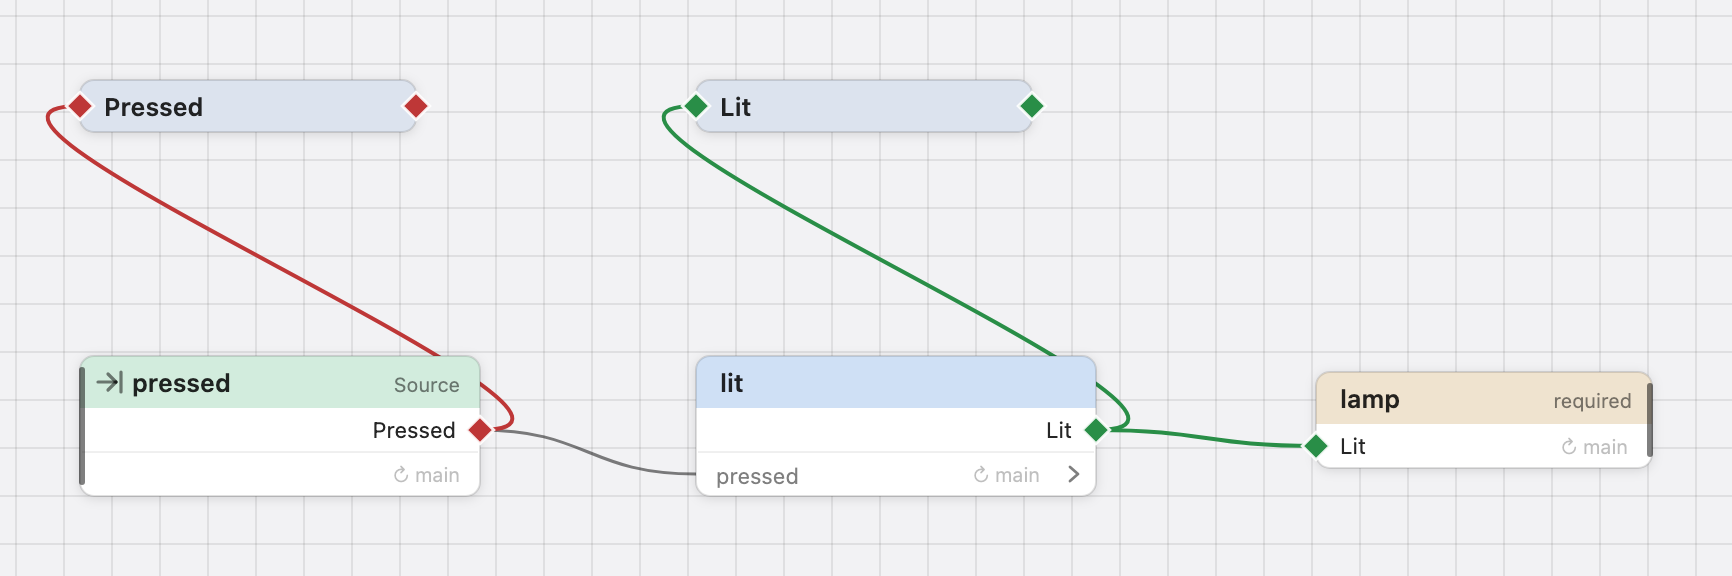
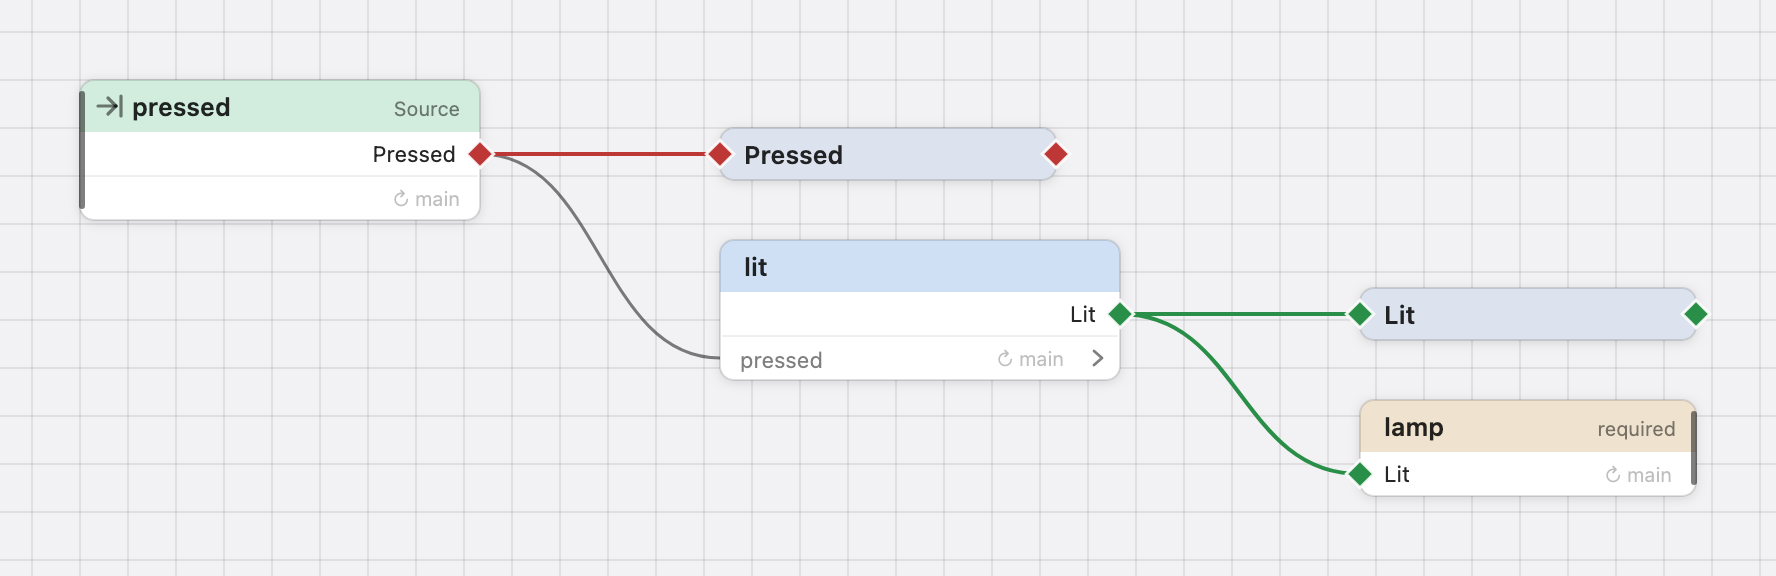
docs(user-guide): recapture the Pico shots over the arranged fixture
pico-design shows the first-open arrangement (pressed at the left,
Pressed and lit in the middle, Lit and lamp at the right); the alt text
says so. pico-firmware-built recaptured with it (the fixture hash);
pico-firmware-ready unchanged in pixels, re-ledgered. Captured from a
clean checkout at 1dffcb2.

diff --git a/locale/user-guide/ja/getting-started/pico-demo.md b/locale/user-guide/ja/getting-started/pico-demo.md
@@ -24,7 +24,7 @@
 
 ようこそページの**デモ**で **Button → Lamp, wired** を選びます。Studio がプロジェクトの置き場所を尋ね（普通のプロジェクトです。`src/main.bdl` を含むフォルダです）、設計ページで開きます。
 
-![The canvas with the concept rows Pressed and Lit at the top, the Source node pressed with its entry arrow and the word Source, the relationship node lit below it with the formula pressed, and the lamp sink at the right, joined by links; each carries the domain name main.](../../../../docs/user-guide/assets/getting-started/pico-design.png)
+![The canvas arranged left to right: the Source node pressed with its entry arrow and the word Source at the left, the concept row Pressed and the relationship node lit with the formula pressed in the middle, the concept row Lit and the lamp sink at the right, joined by links; each carries the domain name main.](../../../../docs/user-guide/assets/getting-started/pico-design.png)
 
 _デモの設計：入力元 pressed、それに追従する値 lit、そしてそれが駆動する lamp。_
 

diff --git a/locale/user-guide/zh_Hans/getting-started/pico-demo.md b/locale/user-guide/zh_Hans/getting-started/pico-demo.md
@@ -24,7 +24,7 @@
 
 在欢迎页的**演示**下选择 **Button → Lamp, wired**。Studio 会问项目放在哪里（它是一个普通项目：一个含有 `src/main.bdl` 的文件夹），然后在设计页打开它。
 
-![The canvas with the concept rows Pressed and Lit at the top, the Source node pressed with its entry arrow and the word Source, the relationship node lit below it with the formula pressed, and the lamp sink at the right, joined by links; each carries the domain name main.](../../../../docs/user-guide/assets/getting-started/pico-design.png)
+![The canvas arranged left to right: the Source node pressed with its entry arrow and the word Source at the left, the concept row Pressed and the relationship node lit with the formula pressed in the middle, the concept row Lit and the lamp sink at the right, joined by links; each carries the domain name main.](../../../../docs/user-guide/assets/getting-started/pico-design.png)
 
 _演示的设计：来源 pressed、跟随它的值 lit，以及它驱动的 lamp。_
 

diff --git a/docs/user-guide/getting-started/pico-demo.md b/docs/user-guide/getting-started/pico-demo.md
@@ -31,7 +31,7 @@ On the Welcome page, under **Demos**, choose **Button → Lamp, wired**. Studio
 asks where to put the project (it is an ordinary project: a folder with
 `src/main.bdl` in it) and opens it on the Design page.
 
-![The canvas with the concept rows Pressed and Lit at the top, the Source node pressed with its entry arrow and the word Source, the relationship node lit below it with the formula pressed, and the lamp sink at the right, joined by links; each carries the domain name main.](../assets/getting-started/pico-design.png)
+![The canvas arranged left to right: the Source node pressed with its entry arrow and the word Source at the left, the concept row Pressed and the relationship node lit with the formula pressed in the middle, the concept row Lit and the lamp sink at the right, joined by links; each carries the domain name main.](../assets/getting-started/pico-design.png)
 
 _The demo's design: the Source pressed, the value lit that follows it, and the
 lamp it drives._
